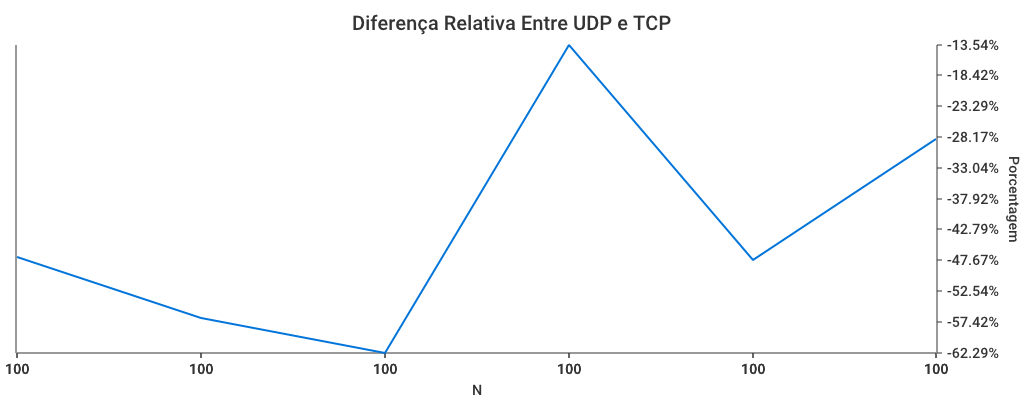
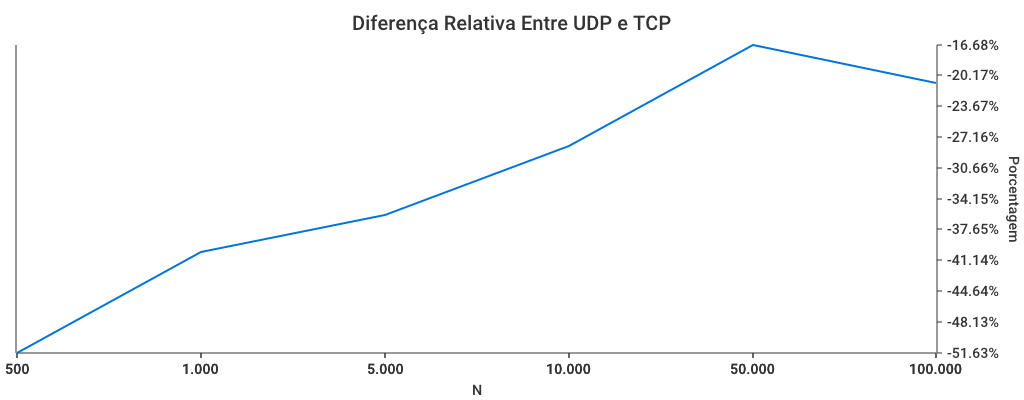
feat: Divisão dos pacotes do udp em chunks

diff --git a/exercicio3/client/sieve_client.go b/exercicio3/client/sieve_client.go
@@ -1,4 +1,4 @@
-package client
+package main
 
 import (
 	"encoding/json"
@@ -24,7 +24,7 @@ func main() {
 	var rtt time.Duration
 
 	if conn_type == "u" {
-		conn := startConnectionUDP()
+		conn := StartConnectionUDP()
 
 	connLoopUDP:
 		for {
@@ -34,7 +34,7 @@ func main() {
 				fmt.Scan(&calcType)
 
 				if calcType == "q" {
-					closeConnectionUDP(conn)
+					CloseConnectionUDP(conn)
 					break connLoopUDP
 				}
 			}
@@ -42,13 +42,13 @@ func main() {
 			fmt.Print("Choose the range: ")
 			fmt.Scan(&rng)
 
-			primes, rtt = sendMessageUDP(conn, rng, calcType)
+			primes, rtt = SendMessageUDP(conn, rng, calcType)
 
 			printPrimes(primes)
 			fmt.Println("RTT: ", rtt)
 		}
 	} else {
-		conn := startConnectionTCP()
+		conn := StartConnectionTCP()
 
 	connLoopTCP:
 		for {
@@ -58,7 +58,7 @@ func main() {
 				fmt.Scan(&calcType)
 
 				if calcType == "q" {
-					closeConnectionTCP(conn)
+					CloseConnectionTCP(conn)
 					break connLoopTCP
 				}
 			}
@@ -66,7 +66,7 @@ func main() {
 			fmt.Print("Choose the range: ")
 			fmt.Scan(&rng)
 
-			primes, rtt = sendMessageTCP(conn, rng, calcType)
+			primes, rtt = SendMessageTCP(conn, rng, calcType)
 
 			printPrimes(primes)
 			fmt.Println("RTT: ", rtt)
@@ -77,7 +77,7 @@ func main() {
 	// fmt.Print("RTT: ", rtt)
 }
 
-func startConnectionTCP() *net.TCPConn {
+func StartConnectionTCP() *net.TCPConn {
 	// retorna o endereço do endpoint
 	r, err := net.ResolveTCPAddr("tcp", "localhost:1314")
 	if err != nil {
@@ -95,7 +95,7 @@ func startConnectionTCP() *net.TCPConn {
 	return conn
 }
 
-func sendMessageTCP(conn *net.TCPConn, rng int, calcType string) ([]int, time.Duration) {
+func SendMessageTCP(conn *net.TCPConn, rng int, calcType string) ([]int, time.Duration) {
 	var response shared.Reply
 
 	// cria enconder/decoder
@@ -127,7 +127,7 @@ func sendMessageTCP(conn *net.TCPConn, rng int, calcType string) ([]int, time.Du
 	return response.Result, endTime.Sub(startTime)
 }
 
-func closeConnectionTCP(conn *net.TCPConn) {
+func CloseConnectionTCP(conn *net.TCPConn) {
 	err := conn.Close()
 	if err != nil {
 		fmt.Println(err)
@@ -135,13 +135,13 @@ func closeConnectionTCP(conn *net.TCPConn) {
 }
 
 func SieveClientTCP(rng int, calcType string) ([]int, time.Duration) {
-	conn := startConnectionTCP()
-	defer closeConnectionTCP(conn)
+	conn := StartConnectionTCP()
+	defer CloseConnectionTCP(conn)
 
-	return sendMessageTCP(conn, rng, calcType)
+	return SendMessageTCP(conn, rng, calcType)
 }
 
-func startConnectionUDP() *net.UDPConn {
+func StartConnectionUDP() *net.UDPConn {
 	addr, err := net.ResolveUDPAddr("udp", "localhost:"+strconv.Itoa(shared.SievePort))
 	if err != nil {
 		fmt.Println(err)
@@ -157,10 +157,10 @@ func startConnectionUDP() *net.UDPConn {
 	return conn
 }
 
-func sendMessageUDP(conn *net.UDPConn, rng int, calcType string) ([]int, time.Duration) {
+func SendMessageUDP(conn *net.UDPConn, rng int, calcType string) ([]int, time.Duration) {
 	var response shared.Reply
 
-	decoder := json.NewDecoder(conn)
+	//decoder := json.NewDecoder(conn)
 	encoder := json.NewEncoder(conn)
 
 	request := shared.Request{Type: calcType, Rng: rng}
@@ -174,7 +174,43 @@ func sendMessageUDP(conn *net.UDPConn, rng int, calcType string) ([]int, time.Du
 		os.Exit(0)
 	}
 
-	err = decoder.Decode(&response)
+	var buffer [1024]byte
+	var packetCount int
+
+	n, _, err := conn.ReadFromUDP(buffer[:])
+	if err != nil {
+		fmt.Println(err)
+	}
+
+	err = json.Unmarshal(buffer[:n], &packetCount)
+	if err != nil {
+		fmt.Println(err)
+		os.Exit(0)
+	}
+
+	var data = make([]byte, 0, (packetCount-1)*1024)
+
+	for i := 0; i < packetCount; i++ {
+
+		// Receive a chunk
+		n, _, err := conn.ReadFromUDP(buffer[:])
+
+		// err = decoder.Decode(&chunk)
+		if err != nil {
+			fmt.Println(err)
+		}
+		// Process the chunk (e.g., append it to the data)
+		data = append(data, buffer[:n]...)
+
+		// if i%100 == 0 {
+		// 	fmt.Println(i)
+		// }
+
+	}
+
+	//fmt.Println(data)
+
+	err = json.Unmarshal(data, &response)
 	if err != nil {
 		fmt.Println(err)
 		os.Exit(0)
@@ -185,7 +221,7 @@ func sendMessageUDP(conn *net.UDPConn, rng int, calcType string) ([]int, time.Du
 	return response.Result, endTime.Sub(startTime)
 }
 
-func closeConnectionUDP(conn *net.UDPConn) {
+func CloseConnectionUDP(conn *net.UDPConn) {
 	err := conn.Close()
 	if err != nil {
 		fmt.Println(err)
@@ -193,10 +229,10 @@ func closeConnectionUDP(conn *net.UDPConn) {
 }
 
 func SieveClientUDP(rng int, calcType string) ([]int, time.Duration) {
-	conn := startConnectionUDP()
-	defer closeConnectionUDP(conn)
+	conn := StartConnectionUDP()
+	defer CloseConnectionUDP(conn)
 
-	return sendMessageUDP(conn, rng, calcType)
+	return SendMessageUDP(conn, rng, calcType)
 }
 
 func printPrimes(primes []int) {

diff --git a/exercicio3/graph.go b/exercicio3/graph.go
@@ -7,7 +7,6 @@ import (
 	"os"
 	"strconv"
 	"strings"
-	"time"
 
 	chart "github.com/wcharczuk/go-chart/v2"
 )
@@ -20,6 +19,7 @@ type TestResult struct {
 
 func joinTests(tests1 []TestResult, tests2 []TestResult) []TestResult {
 	var joinedTests []TestResult
+	client.SieveClientTCP(2, "")
 
 	for _, test1 := range tests1 {
 		for _, test2 := range tests2 {
@@ -40,12 +40,12 @@ func joinTests(tests1 []TestResult, tests2 []TestResult) []TestResult {
 
 func main() {
 	names := []string{"UDP", "TCP"}
-	functions := []func(int, string) ([]int, time.Duration){client.SieveClientUDP, client.SieveClientTCP}
-	testNs1 := []int{100, 100, 100}
-	testNs2 := []int{100, 100, 100}
+	//functions := []func(int, string) ([]int, time.Duration){client.sendMessageUDP, client.sendMessageTCP}
+	testNs1 := []int{500, 1000, 5000}
+	testNs2 := []int{10000, 50000, 100000}
 
-	tests1 := runTests(names, functions, testNs1)
-	tests2 := runTests(names, functions, testNs2)
+	tests1 := runTests(names, testNs1)
+	tests2 := runTests(names, testNs2)
 	testsJoined := joinTests(tests1, tests2)
 
 	makeBarChart(tests1, "comp-tempo")
@@ -54,34 +54,57 @@ func main() {
 	makeDiffPercLineGraph(testsJoined, "diff-perc")
 }
 
-func runTests(names []string, testFuncs []func(int, string) ([]int, time.Duration), nArr []int) []TestResult {
-	avrgLoops := 1000
+func runTests(names []string, nArr []int) []TestResult {
+	avrgLoops := 10000
 
 	var results []TestResult
 
-	//para cada função
-	for i, function := range testFuncs {
-		var res TestResult
-		res.Name = names[i]
+	var resTCP TestResult
+	resTCP.Name = names[0]
 
-		//para cada valor de N
-		for _, n := range nArr {
-			totalRtt := 0
+	//para cada valor de N
+	for _, n := range nArr {
+		totalRtt := 0
 
-			for k := 0; k < avrgLoops; k++ {
-				_, rtt := function(n, "blk_conc")
+		conn := client.StartConnectionUDP()
 
-				totalRtt += int(rtt.Microseconds())
-			}
-
-			avrgMicro := float64(totalRtt) / float64(avrgLoops)
-
-			res.Ns = append(res.Ns, n)
-			res.Results = append(res.Results, avrgMicro)
+		for k := 0; k < avrgLoops; k++ {
+			_, rtt := client.SendMessageUDP(conn, n, "blk_conc")
+			//fmt.Println(totalRtt)
+			totalRtt += int(rtt.Microseconds())
 		}
+		client.CloseConnectionUDP(conn)
 
-		results = append(results, res)
+		avrgMicro := float64(totalRtt) / float64(avrgLoops)
+
+		resTCP.Ns = append(resTCP.Ns, n)
+		resTCP.Results = append(resTCP.Results, avrgMicro)
 	}
+
+	results = append(results, resTCP)
+
+	var resUDP TestResult
+	resUDP.Name = names[1]
+
+	//para cada valor de N
+	for _, n := range nArr {
+		totalRtt := 0
+
+		conn := client.StartConnectionTCP()
+
+		for k := 0; k < avrgLoops; k++ {
+			_, rtt := client.SendMessageTCP(conn, n, "blk_conc")
+			totalRtt += int(rtt.Microseconds())
+		}
+		client.CloseConnectionTCP(conn)
+
+		avrgMicro := float64(totalRtt) / float64(avrgLoops)
+
+		resUDP.Ns = append(resUDP.Ns, n)
+		resUDP.Results = append(resUDP.Results, avrgMicro)
+	}
+
+	results = append(results, resUDP)
 
 	return results
 }

diff --git a/exercicio3/server/sieve_server.go b/exercicio3/server/sieve_server.go
@@ -5,13 +5,14 @@ import (
 	"exercicio3/server/service"
 	"exercicio3/shared"
 	"fmt"
+	"math"
 	"net"
 	"os"
 	"strconv"
+	"time"
 )
 
 func main() {
-
 	var conn_type string
 
 	for conn_type != "u" && conn_type != "t" {
@@ -167,11 +168,44 @@ func HandleUDPRequest(conn *net.UDPConn, msgFromClient []byte, n int, addr *net.
 		os.Exit(0)
 	}
 
-	// send response
-	_, err = conn.WriteTo(msgToClient, addr)
+	var ChunkSize = 1024
+
+	packetCount := math.Ceil(float64(len(msgToClient)) / float64(ChunkSize))
+	packetsToClient, err := json.Marshal(packetCount)
 	if err != nil {
 		fmt.Println(err)
 		os.Exit(0)
 	}
+
+	_, err = conn.WriteTo(packetsToClient, addr)
+	if err != nil {
+		fmt.Println(err)
+		os.Exit(0)
+	}
+	start := time.Now()
+
+	// divide mensagem em varrios pendaços e envia cada um deles
+	for i := 0; i < len(msgToClient); i += ChunkSize {
+		end := i + ChunkSize
+		if end > len(msgToClient) {
+			end = len(msgToClient)
+		}
+		chunk := msgToClient[i:end]
+
+		// send a chunk
+		_, err := conn.WriteTo(chunk, addr)
+		if err != nil {
+			fmt.Println(err)
+			os.Exit(0)
+		}
+
+		if i%100 == 99 {
+			time.Sleep(10 * time.Millisecond)
+		}
+	}
+
+	end := time.Now()
+	fmt.Println(end.Sub(start))
+
 	//fmt.Println("Sent response with", len(r), "primes")
 }
